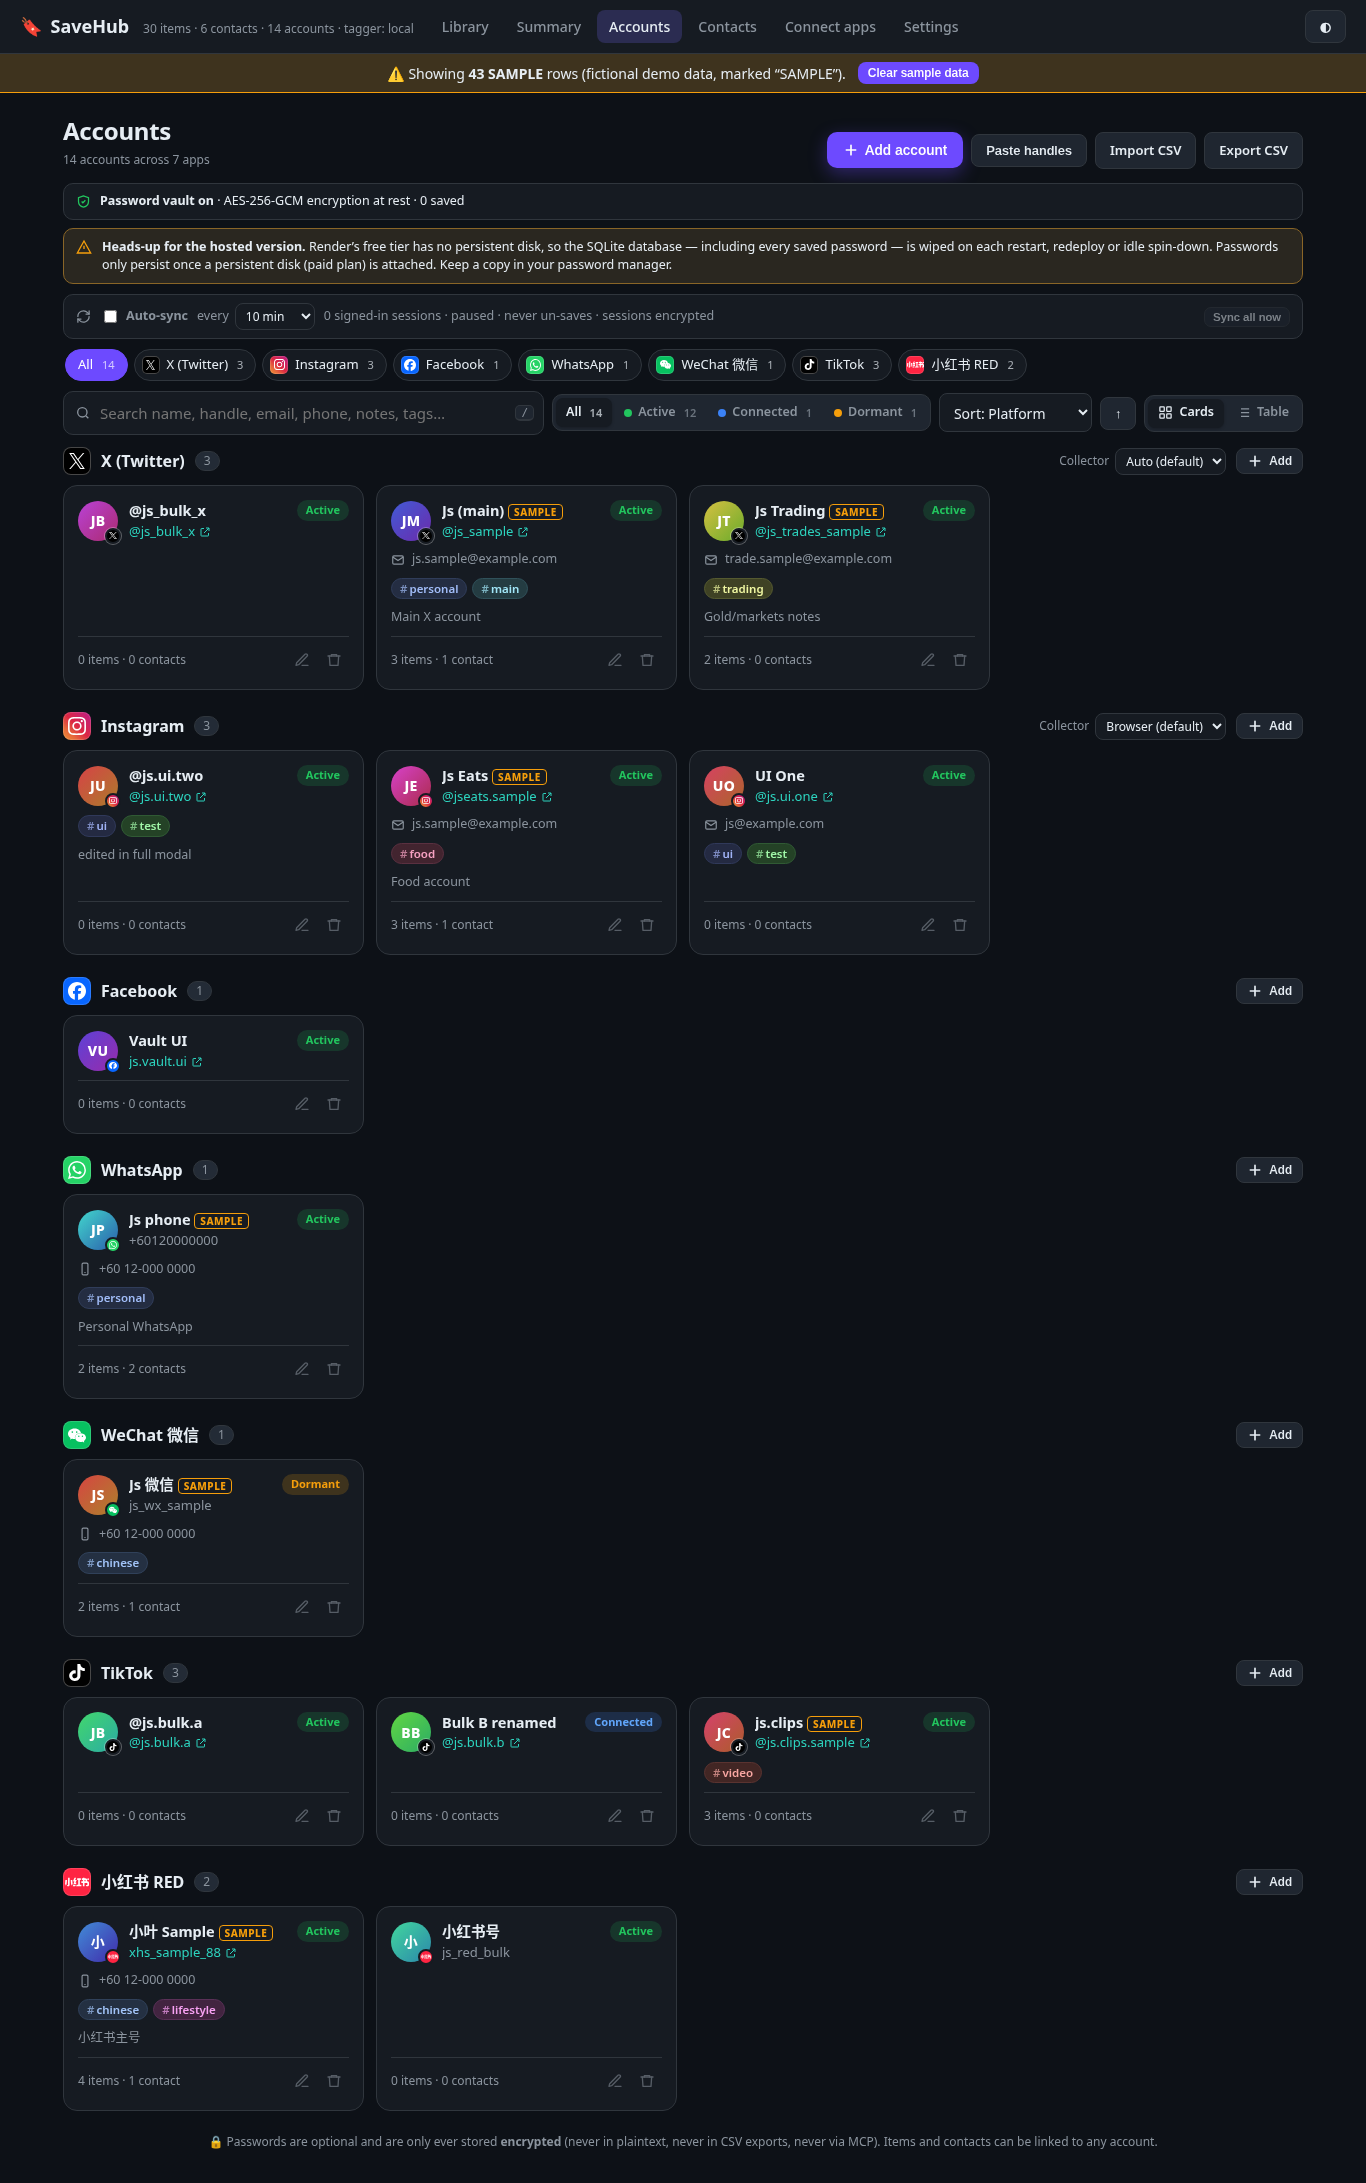
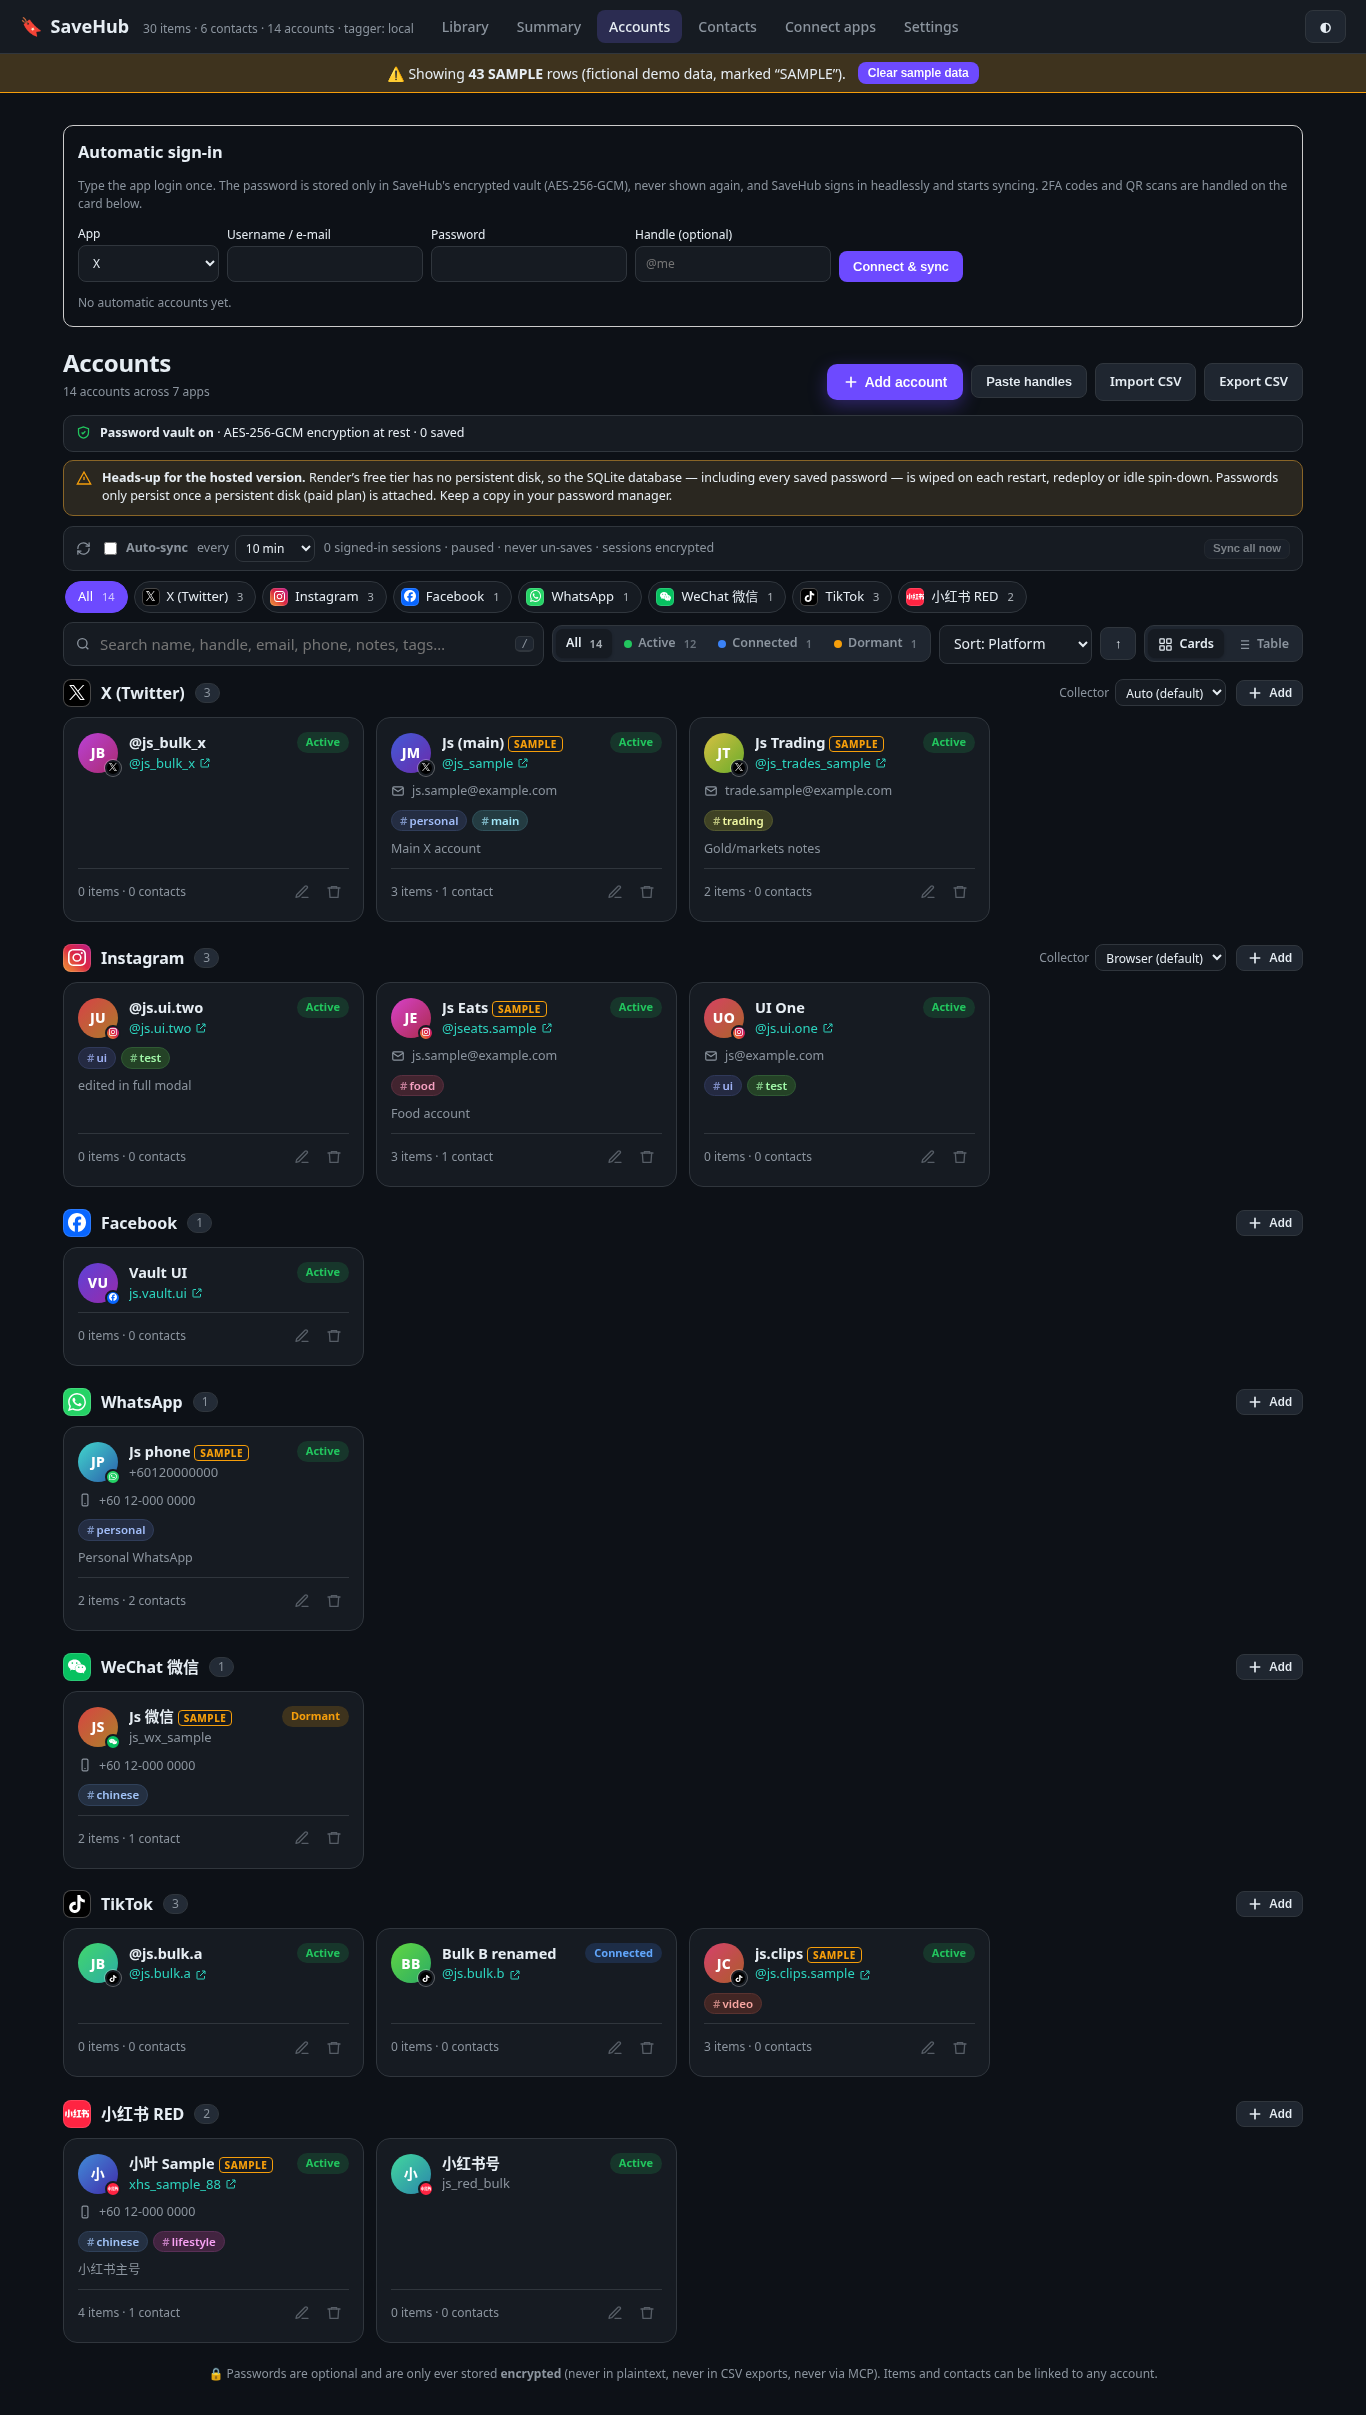
Messenger open tolerates aborted fallback nav; tests expect 19 MCP tools
- MessengerCollector.open: catch net errors on facebook.com/messages fallback
  (unit fixtures only serve messenger.com); only fall through on a real login page.
- combined_server_test + accounts_ui: 19 MCP tools; allow #aa-pass on Accounts.

diff --git a/savehub/collector/platforms/contacts.py b/savehub/collector/platforms/contacts.py
@@ -120,9 +120,16 @@ class MessengerCollector(ContactsCollector):
     def open(self, page, url, cfg, session_file=""):
         """messenger.com first (Continue as if FB cookies present), then facebook.com/messages."""
         from ..logutil import ev
+        last_nav_err = None
         for attempt, target in enumerate((url or self.home_url, self.FB_MESSAGES)):
             ev("messenger.open", url=target, attempt=attempt)
-            page.goto(target, wait_until="domcontentloaded", timeout=cfg.page_timeout_ms)
+            try:
+                page.goto(target, wait_until="domcontentloaded", timeout=cfg.page_timeout_ms)
+            except Exception as e:
+                # Offline / fixture-aborted hosts (unit tests) or transient net errors: try the next URL
+                last_nav_err = e
+                ev("messenger.open_failed", logging.WARNING, url=target, error=type(e).__name__)
+                continue
             self.wait_ready(page, min(cfg.page_timeout_ms, 20000))
             if self._inbox_ready(page):
                 return
@@ -130,7 +137,6 @@ class MessengerCollector(ContactsCollector):
                 self.wait_ready(page, min(cfg.page_timeout_ms, 20000))
                 if self._inbox_ready(page):
                     return
-            # cookie consent / "Not now" for notifications — ignore failures
             for dismiss in ('div[role="button"]:has-text("Not now")', 'button:has-text("Not Now")',
                             'div[role="button"]:has-text("Allow all cookies")'):
                 try:
@@ -139,6 +145,9 @@ class MessengerCollector(ContactsCollector):
                 except Exception: pass
             if self._inbox_ready(page):
                 return
+            # Only fall through to facebook.com/messages when we actually landed on a login/checkpoint page
+            if attempt == 0 and not self.is_login_page(page):
+                break
         self.ensure_logged_in(page, session_file)
 
     def targets(self, page, cfg, session_file=""):

diff --git a/tests/combined_server_test.py b/tests/combined_server_test.py
@@ -47,7 +47,7 @@ try:
         httpx.post(BASE + "/mcp", json={"jsonrpc": "2.0", "method": "notifications/initialized"}, headers=h2)
         r = httpx.post(BASE + "/mcp", json={"jsonrpc": "2.0", "id": 2, "method": "tools/list"}, headers=h2)
         names = sorted(t["name"] for t in parse(r)["result"]["tools"]) if r.status_code == 200 else []
-        check(f"MCP tools/list (Host: {host})", len(names) == 17, f"{len(names)} tools")
+        check(f"MCP tools/list (Host: {host})", len(names) == 19, f"{len(names)} tools")
     r = httpx.post(BASE + "/mcp", json=INIT, headers={**auth, "Host": "evil.example.com"}); check("MCP foreign Host rejected (DNS-rebinding protection)", r.status_code == 421, str(r.status_code))
     r = httpx.post(BASE + "/mcp", json=INIT, headers={**auth, "Origin": "https://evil.example.com"}); check("MCP foreign Origin rejected", r.status_code == 403, str(r.status_code))
 
@@ -58,7 +58,7 @@ try:
                 tools = (await s.list_tools()).tools
                 res = json.loads((await s.call_tool("search_items", {"query": "nasi lemak"})).content[0].text)
                 return len(tools), res["total"]
-    n, total = asyncio.run(sdk()); check("MCP SDK client: initialize+list_tools+search_items", n == 17 and total == 1, f"{n} tools, search total={total}")
+    n, total = asyncio.run(sdk()); check("MCP SDK client: initialize+list_tools+search_items", n == 19 and total == 1, f"{n} tools, search total={total}")
     r = httpx.get(BASE + "/healthz"); check("dashboard still healthy after MCP traffic", r.status_code == 200)
     # security headers + auto-sync endpoints / MCP tools (auth required)
     h = httpx.get(BASE + "/").headers

diff --git a/tests/accounts_ui_test.py b/tests/accounts_ui_test.py
@@ -116,7 +116,7 @@ with sync_playwright() as p:
     pg.click(f'[data-act="qedit"][data-id="{aid}"]'); pg.click('[data-act="fulledit"]'); pg.wait_for_selector("#f_handle")
     pg.fill("#f_notes", "edited in full modal"); pg.click("#amSave"); pg.wait_for_timeout(600)
     check("full edit modal saves", api("/api/accounts", q="js.ui.two")["accounts"][0]["notes"] == "edited in full modal")
-    check("no plaintext password field on the page (only the masked vault field in the form)", pg.locator('input[type=password]:visible').count() == 0 and pg.locator('[name*=pass]').count() == 0)
+    vis = pg.locator("input[type=password]:visible"); ids = [vis.nth(i).get_attribute("id") for i in range(vis.count())]; check("no plaintext password field on the page (only auto-login #aa-pass when idle)", set(ids) <= {None, "", "aa-pass"}, str(ids))
 
     # --- encrypted password vault
     vs = api("/api/vault/status")
